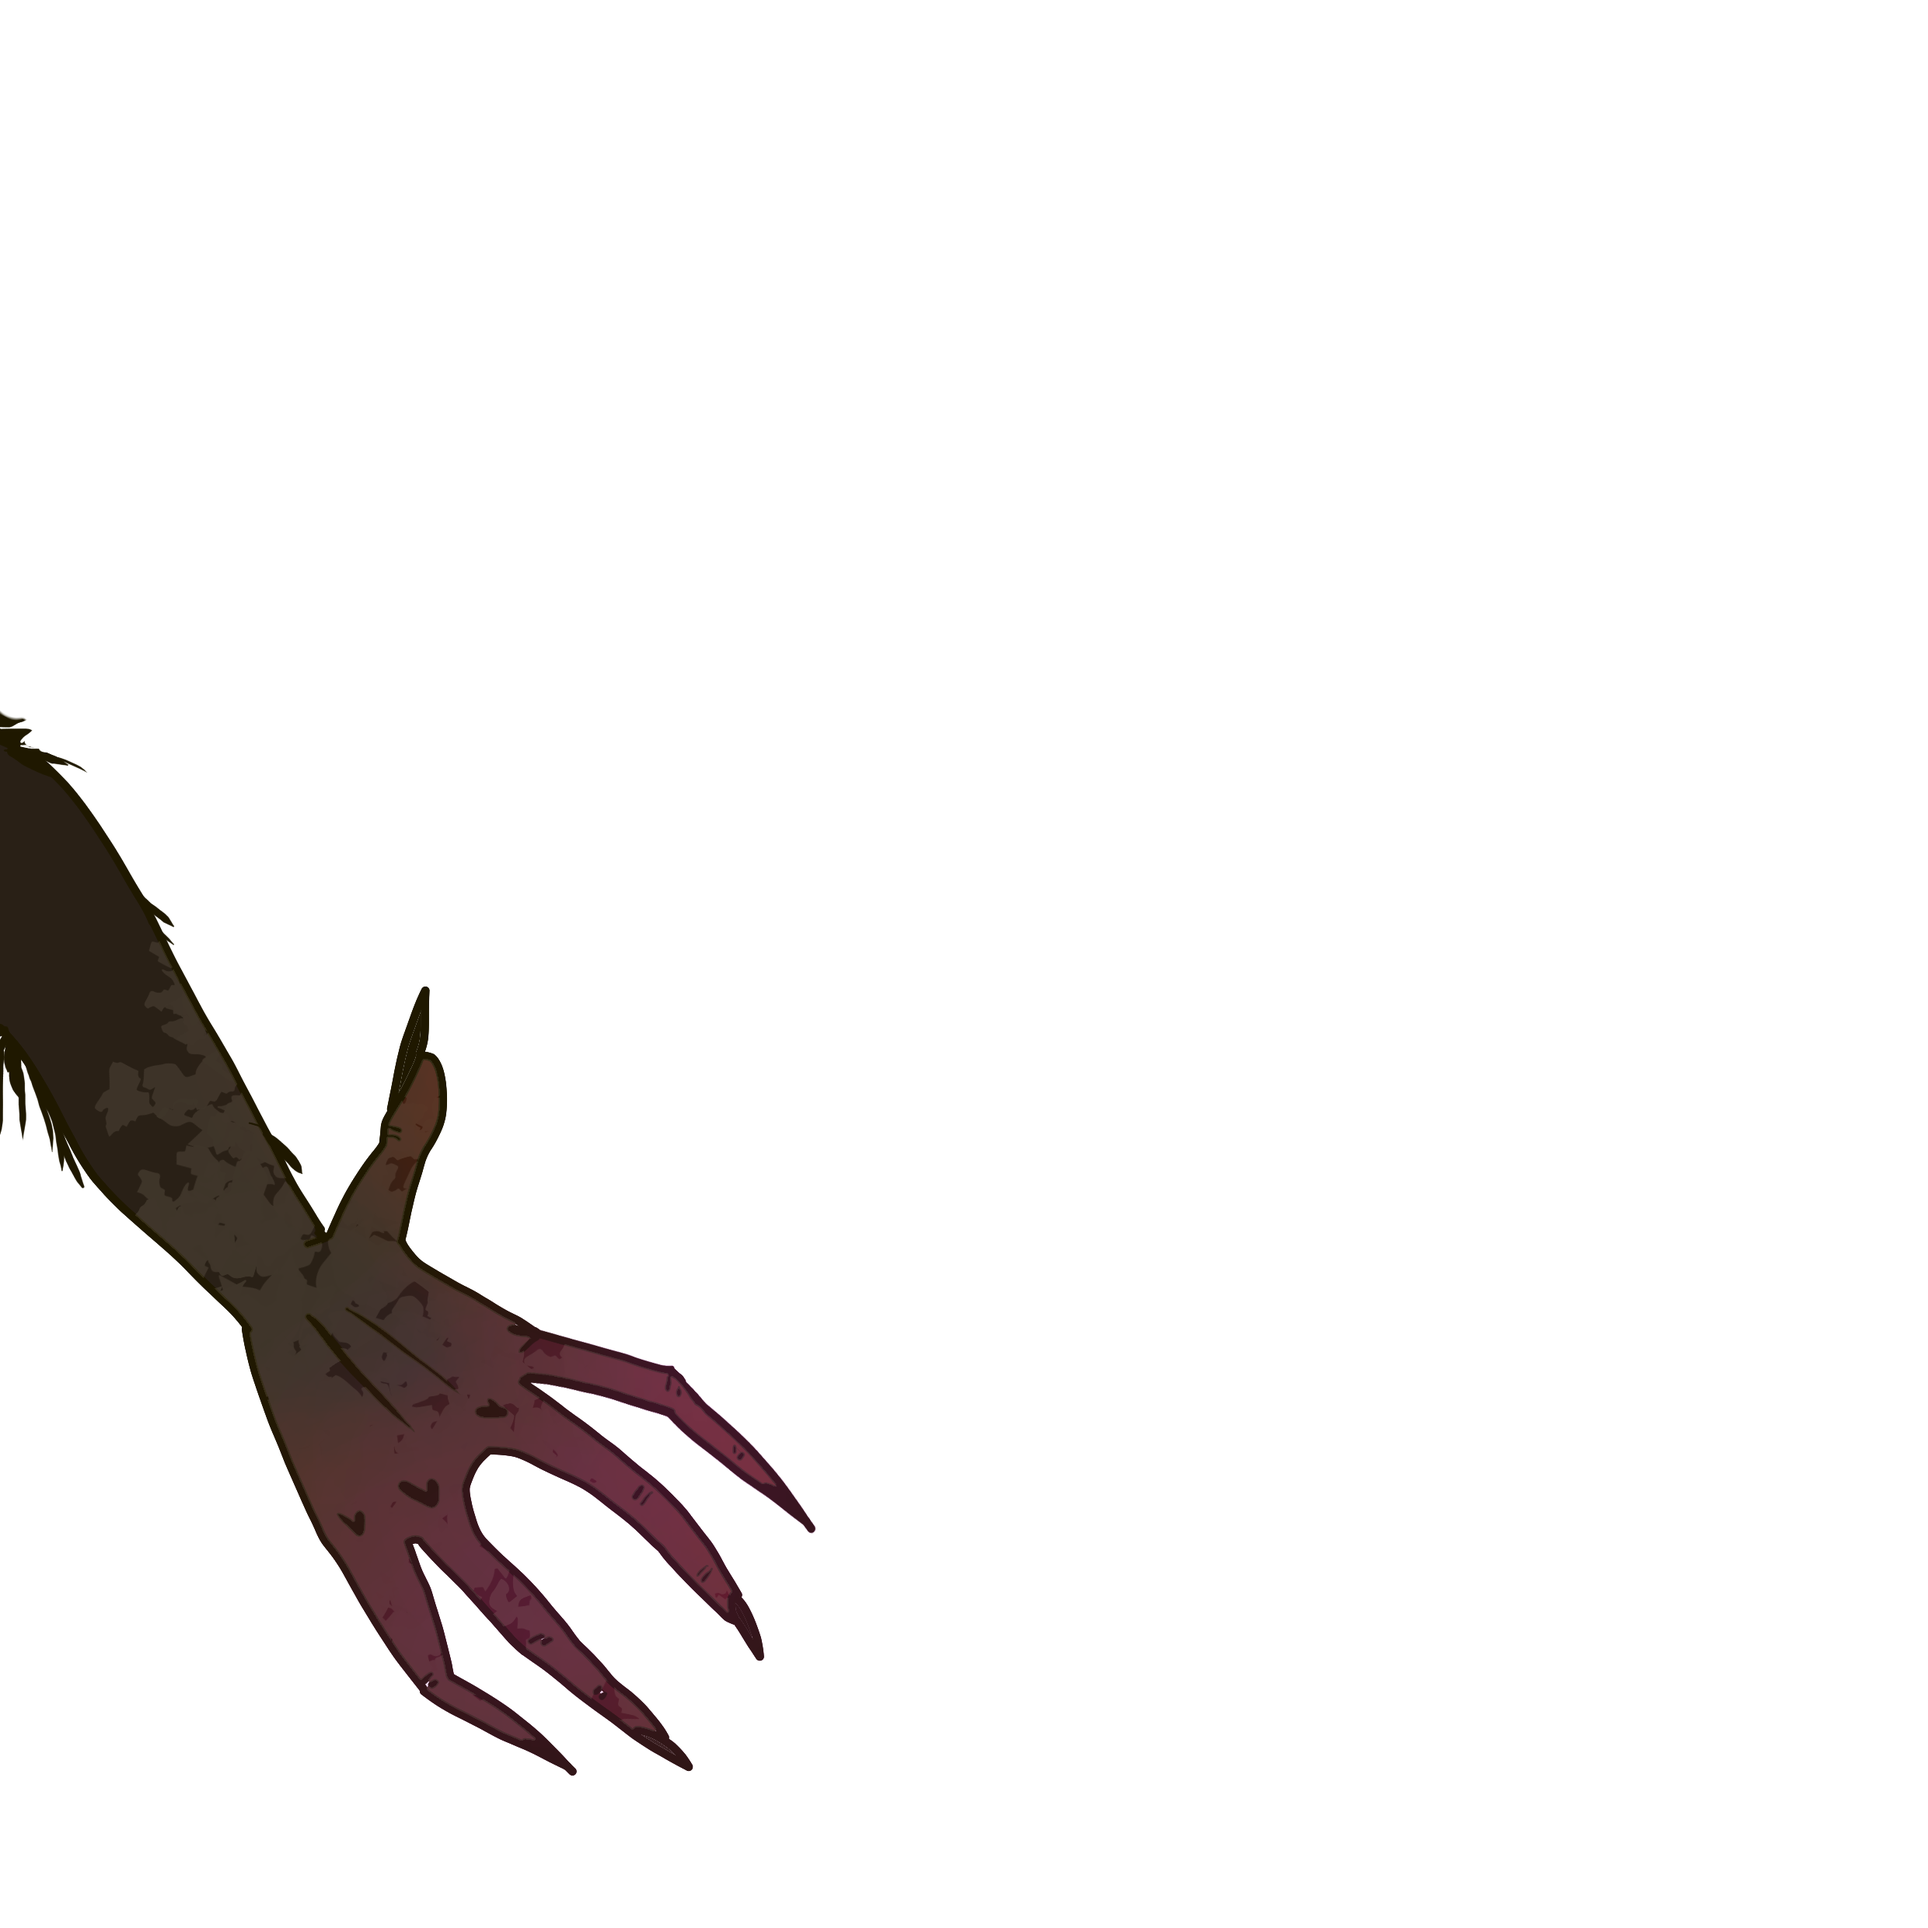
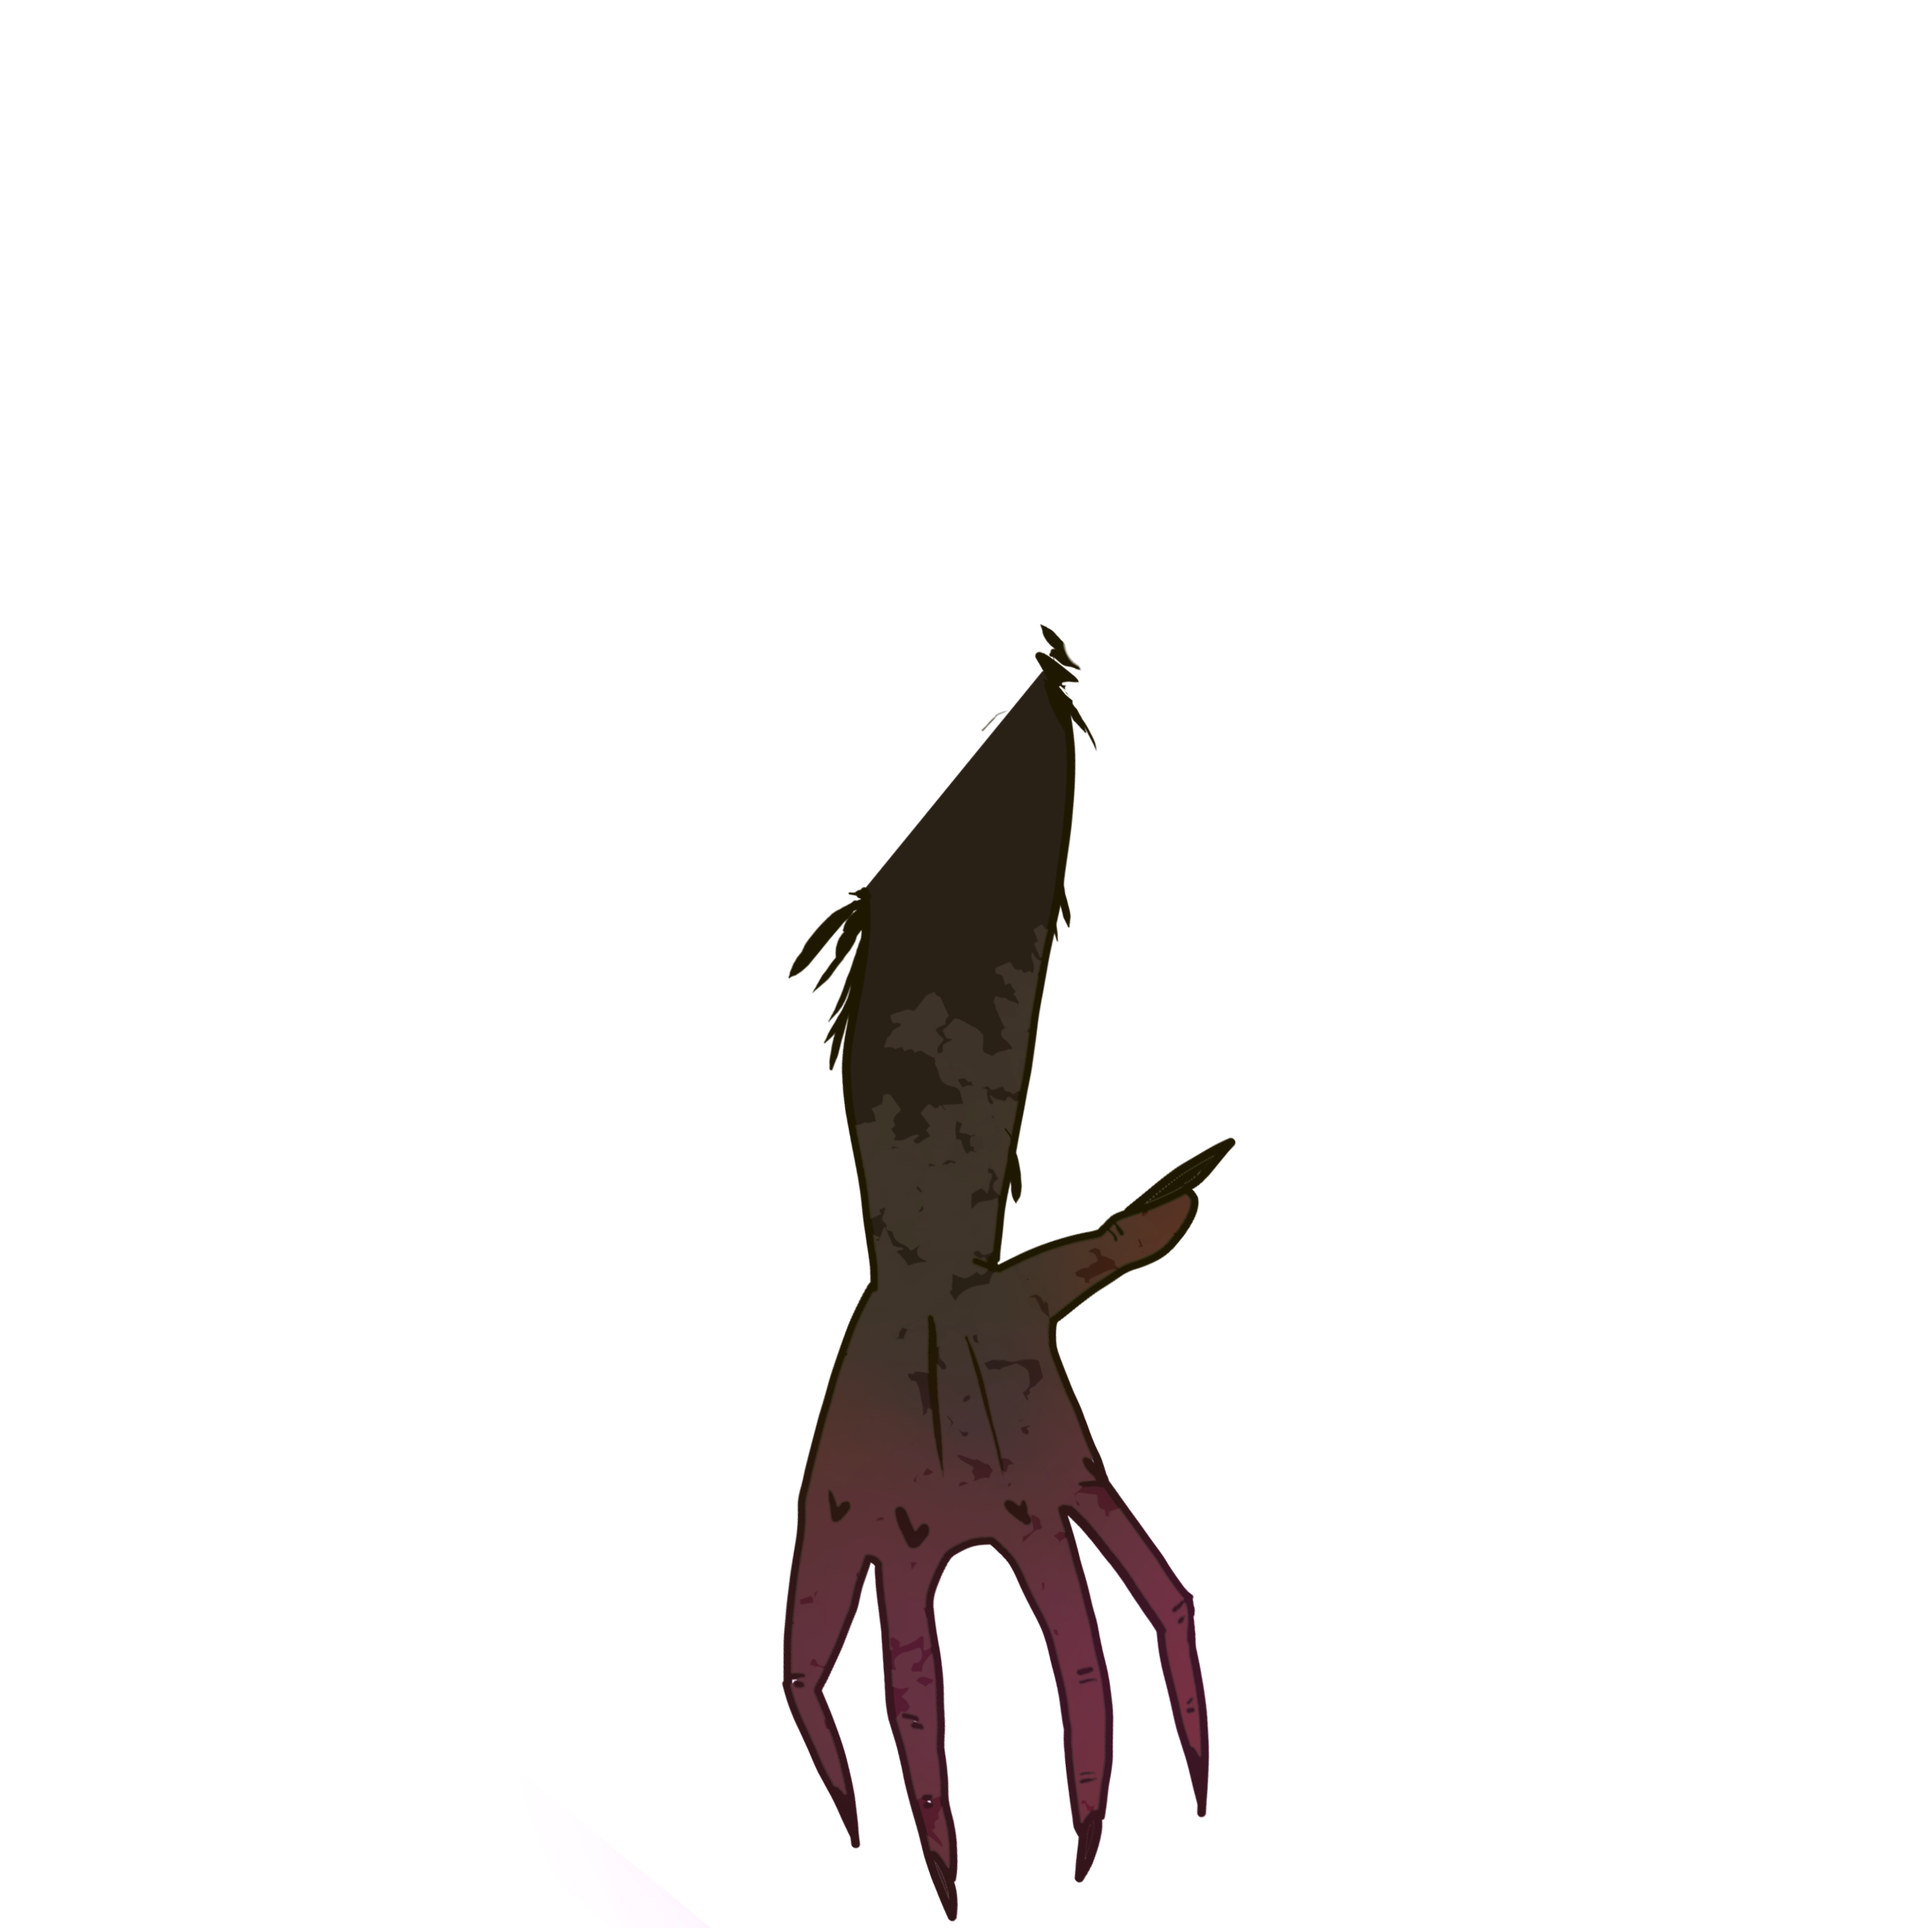
Дьявол. Повороты рук. Правая рука куда-то уехала

Changed region(s): [[0.0, 0.3105, 0.652, 0.9935], [0.3415, 0.9004, 0.3726, 0.9315]]

diff --git a/main.py b/main.py
@@ -184,7 +184,7 @@ def main_cycle():
     place = text.get_rect(topleft=(10, 55))
     screen.blit(text, place)
 
-    if curscore == 20:
+    if curscore == 0:
         bfrunning = True
 
     pygame.display.flip()
@@ -258,9 +258,11 @@ def bossfight():
             if event.type == pygame.QUIT:
                 bfrunning = False
                 running = False
+        screen.blit(bgimg, (0, 0))
+        all_sprites.update()
         all_sprites.draw(screen)
         pygame.display.flip()
-        clock.tick(20)
+        clock.tick(FPS)
 
 
 def clear_sprites():
@@ -301,8 +303,12 @@ bullets = pygame.sprite.Group()
 player = Player(playerimage, 4, 4)
 bosshead = DevilHead(devilhead)
 bossrhand = DevilHand(devilrhand)
+bossrhand.rotspeed = -0.1
+bossrhand.rect.x = 100 + WIDTH//2
 # rect
 bosslhand = DevilHand(devillhand)
+bosslhand.rotspeed = 0.1
+bosslhand.rect.x = - bossrhand.rect.x
 # rect
 healers = pygame.sprite.Group()
 amo = pygame.sprite.Group()

diff --git a/game_methods.py b/game_methods.py
@@ -208,15 +208,23 @@ class DevilHead(pygame.sprite.Sprite):
 class DevilHand(pygame.sprite.Sprite):
     def __init__(self, hand):
         pygame.sprite.Sprite.__init__(self)
-        self.image = hand
+        self.imagecopy = hand
+        self.image = self.imagecopy.copy()
         self.rect = self.image.get_rect()
         self.rect.x, self.rect.y = 0, 0
         self.speed = 0
         self.timestamp = 0
-        self.life = 10
+        self.rot = 0
+        self.rotspeed = 0
 
     def update(self, *args):
-        return 0
+        self.rot = (self.rot + self.rotspeed) % 90
+        newimage = pygame.transform.rotate(self.imagecopy, self.rot)
+        oldcenter = self.rect.center
+        self.image = newimage
+        self.rect = self.image.get_rect()
+        self.rect.center = oldcenter
+
 
 
 def load_image(name, colorkey=None):
